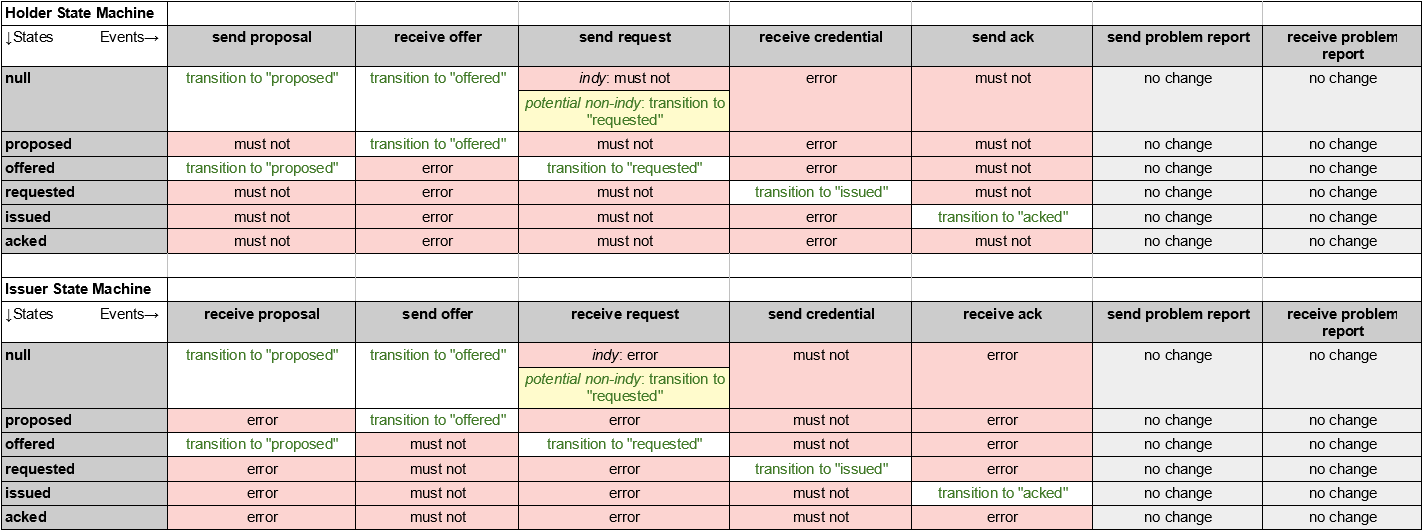
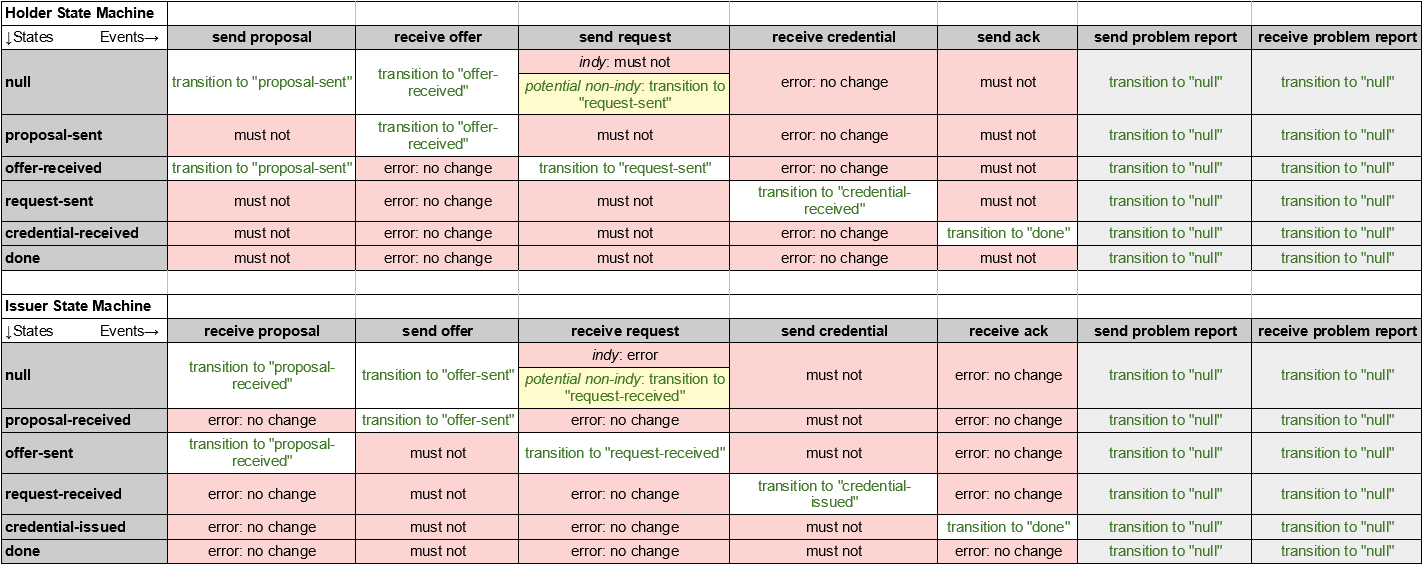
align state names with PR#412 for Issuer, Holder

diff --git a/features/0036-issue-credential/README.md b/features/0036-issue-credential/README.md
@@ -39,39 +39,27 @@ There are two roles in this protocol: Issuer and Holder. Technically, the latter
 
 ### States
 
-The choreography diagram [below](#choreography-diagram) details how state evolves in this protocol, in a "happy path."
+The choreography diagram [below](#choreography-diagram) details how state evolves in this protocol, in a "happy path." The states include
 
-Errors might occur in various places. For example, an Issuer might offer a credential for a price that the Holder is unwilling to pay. All errors are modeled with a `problem-report` message. Easy-to-anticipate errors reset the flow as shown in the diagrams, and use the code `issuance-abandoned`; more exotic errors (e.g., server crashed at Issuer headquarters in the middle of a workflow) may have different codes but still cause the flow to be abandoned in the same way.
+states for Issuer:
 
-The state table introduces the protocol states; further discussion elaborates.
+* proposal-received
+* offer-sent
+* request-received
+* credential-issued
+* done
 
-![State Table](state-table.png)
+and states for Holder:
 
-The Issue Credential protocol defines the following states:
+* proposal-sent
+* offer-received
+* request-sent
+* credential-received
+* done.
 
-#### null
+Errors might occur in various places. For example, an Issuer might offer a credential for a price that the Holder is unwilling to pay. All errors are modeled with a `problem-report` message. Easy-to-anticipate errors reset the flow as shown in the diagrams, and use the code `issuance-abandoned`; more exotic errors (e.g., server crashed at Issuer headquarters in the middle of a workflow) may have different codes but still cause the flow to be abandoned in the same way. That is, in this version of the protocol, all errors cause the state of both parties (the sender and the receiver of the `problem-report`) to revert to `null` (meaning it is no longer engaged in the protocol at all). Future versions of the protocol may allow more granular choices (e.g., requesting and receiving a (re-)send of the `issue-credential` message if the Holder times out while waiting in the `request-sent` state).
 
-No credential exchange exists or is in progress.
-
-#### proposed
-
-The Holder has proposed a credential that the Issuer might issue.
-
-#### offered
-
-The Issuer has offered proof of its capacity to issue a credential to the Holder.
-
-#### requested
-
-The Holder has requested a credential from the Issuer.
-
-#### issued
-
-The Issuer has issued a credential to the Holder.
-
-#### acked
-
-The Holder has acknowledged receipt of the credential to the Issuer.
+The state table outlines the protocol states and transitions.
 
 ### Messages
 
